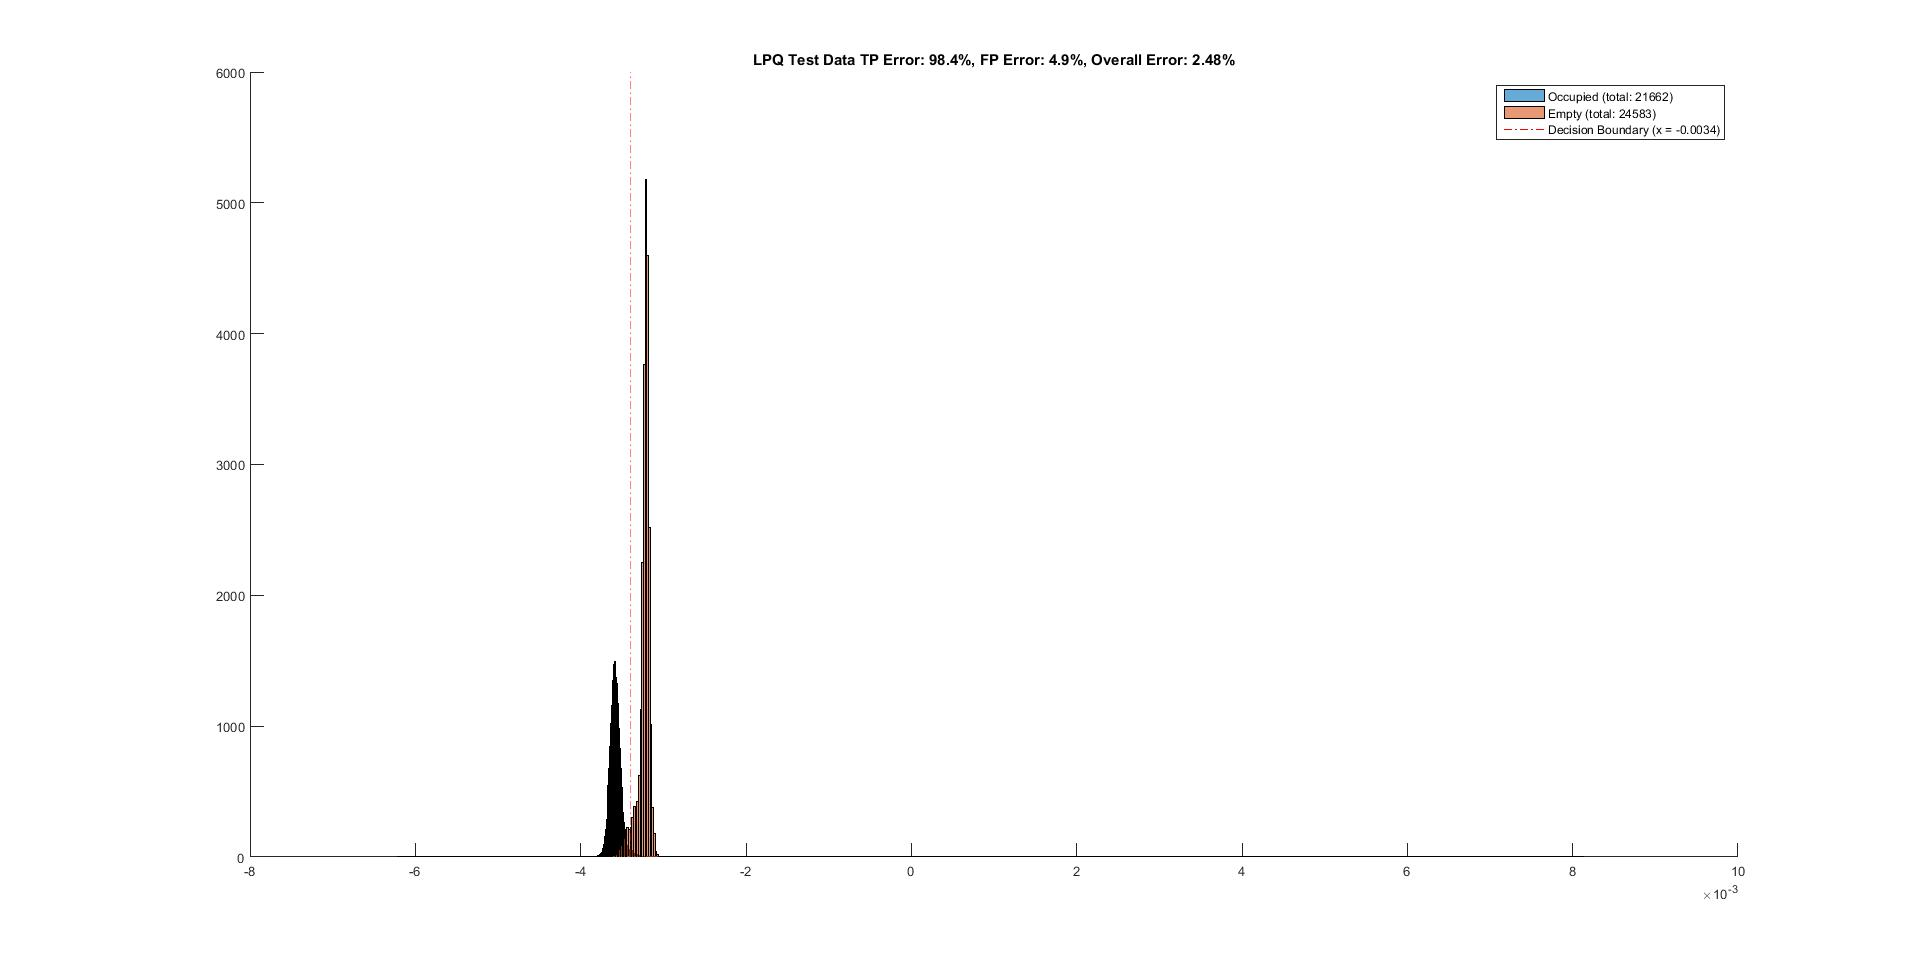
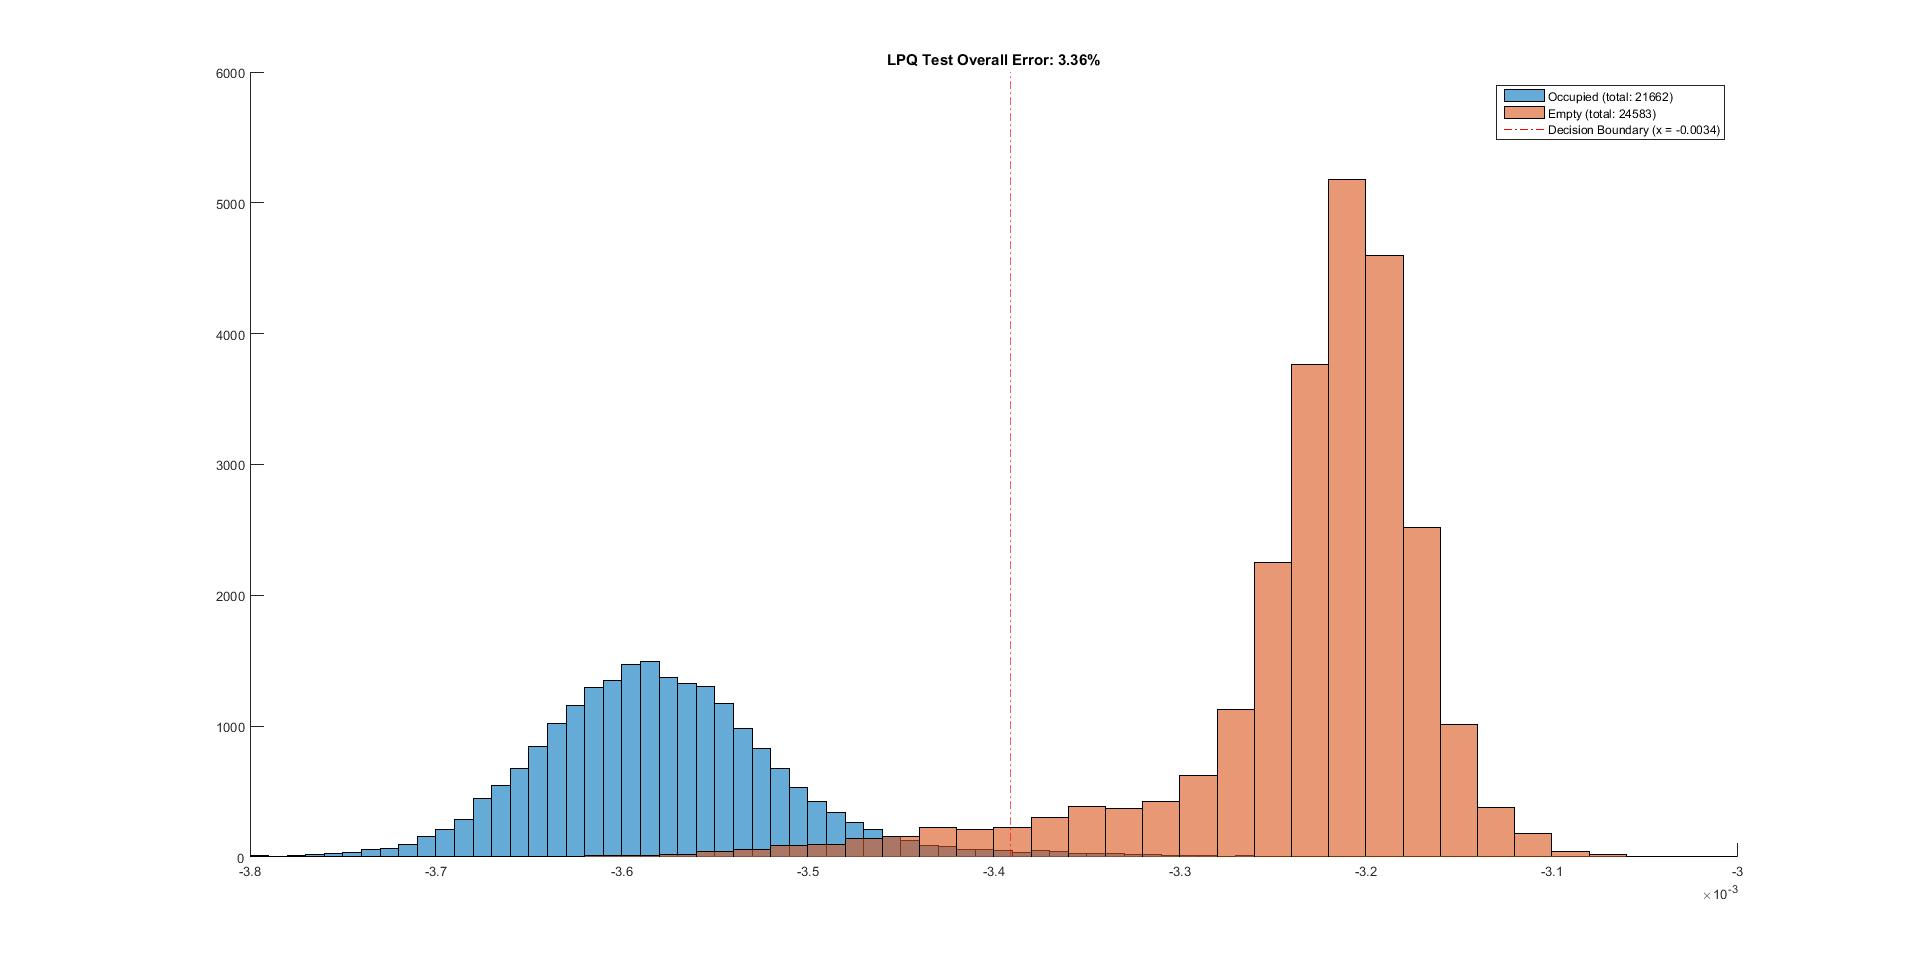
clean up and fixes
add code to demonstrate blur invariance of lpq
added correct 40k image
changed confusion matrices from rates to spot counts

Changed region(s): [[0.1562, 0.1869, 0.8438, 0.9034], [0.4375, 0.0312, 0.5938, 0.0935], [0.4062, 0.0623, 0.4375, 0.0935]]

diff --git a/Local Phase Quantization/test.m b/Local Phase Quantization/test.m
@@ -1,31 +1,67 @@
-close all
+% close all
+% 
+% load('lot_seg1.mat');
+% load('lot_seg2.mat');
+% load('lot_seg3.mat');
+% 
+% f1 = LPQ(im_seg1);
+% f2 = LPQ(im_seg2);
+% f3 = LPQ(im_rot);
+% 
+% figure;
+% subplot(3,3,1);
+% imshow(im_seg1);
+% subplot(3,3,2);
+% imshow(im_seg2);
+% subplot(3,3,3);
+% imshow(im_rot);
+% subplot(3,3,4);
+% histogram(f1,256,'Normalization', 'probability');
+% subplot(3,3,5);
+% histogram(f2,256,'Normalization', 'probability');
+% subplot(3,3,6);
+% histogram(f3,256,'Normalization', 'probability');
+% subplot(3,3,7:9);
+% hold on;
+% 
+% histogram(f1,256,'Normalization', 'probability');
+% histogram(f2,256,'Normalization', 'probability');
+% histogram(f3,256,'Normalization', 'probability');
+% legend('car1','car2','empty');
 
-load('lot_seg1.mat');
-load('lot_seg2.mat');
-load('lot_seg3.mat');
+%%
+load('camera256.mat')
+camera_motion = imgaussfilt(camera256, 2);
 
-f1 = LPQ(im_seg1);
-f2 = LPQ(im_seg2);
-f3 = LPQ(im_rot);
+tic
+lbp1 = LPQ(camera256);
+lbp1_r = LPQ(camera_motion);
+toc
+
+nbins = 60;
 
 figure;
-subplot(3,3,1);
-imshow(im_seg1);
-subplot(3,3,2);
-imshow(im_seg2);
-subplot(3,3,3);
-imshow(im_rot);
-subplot(3,3,4);
-histogram(f1,256,'Normalization', 'probability');
-subplot(3,3,5);
-histogram(f2,256,'Normalization', 'probability');
-subplot(3,3,6);
-histogram(f3,256,'Normalization', 'probability');
-subplot(3,3,7:9);
-hold on;
-histogram(f1,256,'Normalization', 'probability');
-histogram(f2,256,'Normalization', 'probability');
-histogram(f3,256,'Normalization', 'probability');
-legend('car1','car2','empty');
+subplot(2,2,1)
+imshow(camera256,[]);
+title('Original Image');
 
+subplot(2,2,2);
+h1 = histogram(lbp1,nbins,'Normalization','probability'); 
+title('LPQ of Original Image');
+
+subplot(2,2,3)
+imshow(camera_motion,[]);
+title('Rotated Image');
+subplot(2,2,4);
+h1_r = histogram(lbp1_r,nbins,'Normalization','probability');
+title('LPQ of Rotated Image');
+
+figure; 
+h1 = histogram(lbp1,nbins,'Normalization','probability');
+hold on
+h1_r = histogram(lbp1_r,nbins,'Normalization','probability');
+title('LPQ Comparision of Two Image');
+legend('camera256', 'camera256 rotated');
+
+rmse =  sqrt(mean((h1.Values - h1_r.Values).^2))
 

diff --git a/Evaluate.m b/Evaluate.m
@@ -22,23 +22,23 @@ function confusion_matrix = Evaluate( feature_vector1,feature_vector2, p_vector,
 
    if h_oc.mu > h_em.mu
         % Type 1 Error: False Positives - Empty when classified as occupied
-        FP = sum(p_empty > decision_boundary)/length(p_empty)*100;
+        FP = sum(p_empty > decision_boundary);
 
         % Type 2 Error: False Negatives - Occupied when classified as empty
-        FN = sum(p_occupied < decision_boundary)/length(p_empty)*100;
+        FN = sum(p_occupied < decision_boundary);
     else
         % Type 1 Error: False Positives - Empty when classified as occupied
-        FP = sum(p_empty < decision_boundary)/length(p_empty)*100;
+        FP = sum(p_empty < decision_boundary);
 
         % Type 2 Error: False Negatives - Occupied when classified as empty
-        FN = sum(p_occupied > decision_boundary)/length(p_occupied)*100;  
+        FN = sum(p_occupied > decision_boundary);  
     end
-    TP = sum(p_occupied < decision_boundary)/length(p_occupied)*100;
-    TN = sum(p_empty > decision_boundary)/length(p_empty)*100;
+    TP = sum(p_occupied < decision_boundary);
+    TN = sum(p_empty > decision_boundary);
 
     
     Overall_Error = (FP + FN)/ (TP + TN + FP + FN) * 100;
-    str1 = sprintf('%s Test Data TP Error: %.1f%%, FP Error: %.1f%%, Overall Error: %.2f%%', str, TP, FP, Overall_Error);
+    str1 = sprintf('%s Test Overall Error: %.2f%%', str, Overall_Error);
     title(str1);
 
     c = [TP FN; FP TN];

diff --git a/Main.m b/Main.m
@@ -6,7 +6,6 @@
 % Note all the test images used are from a open source parking lot image
 % database.
 close all;
-clear all;
 
 %add relevant file paths
 addpath(genpath('File Extraction'),'./Processing', './Local Phase Quantization', './Local Binary Pattern');
@@ -17,7 +16,7 @@ if ~exist('file_set','var')
 end
 
 % Select a set of images from the test files
-test_data = GetImagesAndData(randsample(test_set, 50));
+test_data = GetImagesAndData(randsample(test_set, 100));
 
 % Segment the images for the training files
 training_data = GetImagesAndData(training_set);

diff --git a/Local Binary Pattern/test.m b/Local Binary Pattern/test.m
@@ -1,7 +1,7 @@
 close all
 
 load('camera256.mat');
-load('boat512.mat');
+
 %convert image to grayscale
 %create neighbourhood sliding window nlfilter or im2col
 camera_rotated = imrotate(camera256,90);
